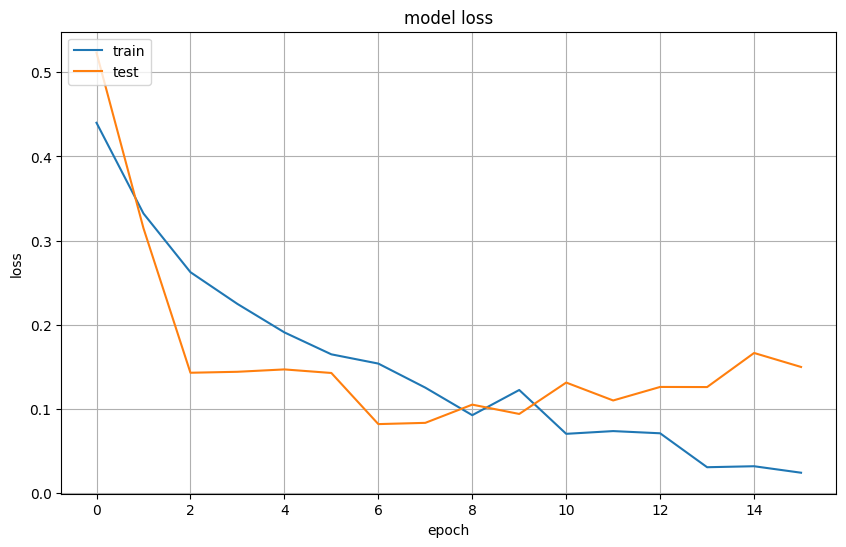
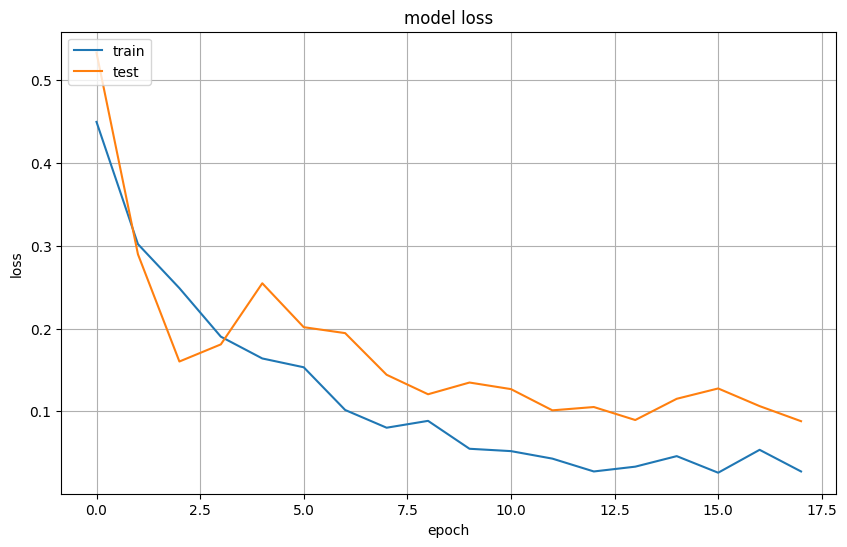
v16

diff --git a/dataGenerator.py b/dataGenerator.py
@@ -91,10 +91,10 @@ class DataGenerator(Sequence):
       
     def normalize(self, data):
         data = (data / 255.0).astype(np.float32)
-        #mean = np.mean(data)
-        #std = np.std(data)
-        mean = [0.485, 0.456, 0.406]
-        std = [0.229, 0.224, 0.225]
+        mean = np.mean(data)
+        std = np.std(data)
+        #mean = [0.485, 0.456, 0.406]
+        #std = [0.229, 0.224, 0.225]
         return (data-mean) / std
     
     def random_flip(self, video, prob):
@@ -252,7 +252,7 @@ class DataGenerator(Sequence):
             data = self.crop_corner(data, prob=0.5)
             #data = self.random_shift(data, wrg = .2, hrg= .2, prob = 0.4)
             #data = self.random_shear(data,intensity=10,prob=0.3)
-            #data = self.random_rotation(data, rg=15, prob=0.4)
+            #data = self.random_rotation(data, rg=25, prob=0.4)
         return data
 
 

diff --git a/datasetProcess.py b/datasetProcess.py
@@ -57,7 +57,7 @@ def five_fold_split(dataset_name,source):
     random.seed(42)
     random.shuffle(fightVideos)
     random.shuffle(nonFightVideos)
-    kf = KFold(n_splits=5,random_state=42,shuffle=False)
+    kf = KFold(n_splits=5,random_state=42,shuffle=True)
     splits = []
     for train_ind, test_ind in kf.split(fightVideos):
         testFightVideos = [fightVideos[i] for i in test_ind]
